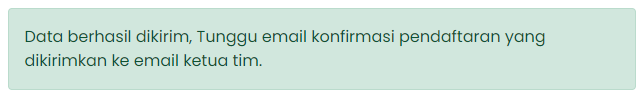
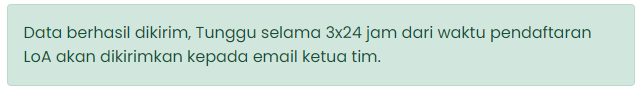
new

diff --git a/International-Participant.html b/International-Participant.html
@@ -40,8 +40,8 @@
         <br>
         <p>1.&nbsp; &nbsp; Please fill in the required data correctly and make sure there are no writing errors. Please also make sure that the data submitted is fixed and there will be no changes.</p>
         <p>2.&nbsp; &nbsp;After making sure the data is correct, you can click send. If we have received your data, there will be a green notification as follows above the submit button : </p>
-        <img class="con" src="../../Capture.PNG" alt="">
-        <p>3.&nbsp; &nbsp;Wait a while for a registration confirmation email to be sent to the team leader email you wrote.</p>
+        <img class="con" src="../../2.PNG" alt="">
+        <p>3.&nbsp; &nbsp;Wait for 3x24 hours from the time of registration LoA will be sent to the team leader's email.</p>
         <form name="#">
           
           <div class="user-details">
@@ -83,6 +83,7 @@
                 <option value="Online Competition + Certificate and Medal">Online Competition + Certificate and Medal</option>
                 <option value="Offline Competition">Offline Competition</option>
                 <option value="Offline Competition + Full Package">Offline Competition + Full Package</option>
+                <option value="Offline Competition + Excursion">Offline Competition + Excursion</option>
               </select>
               </select>
             </div>
@@ -496,7 +497,7 @@
       fetch(scriptURL, { method: 'POST', body: new FormData(form) })
         .then((response) =>
           $('#form_alerts').html(
-            "<div class='alert alert-success'>Data sent successfully, Wait for the registration confirmation email to be sent to the team leader's email.</div>"
+            "<div class='alert alert-success'>Data sent successfully, Wait for 3x24 hours from the time of registration LoA will be sent to the team leader's email.</div>"
           )
         )
         .catch((error) =>

diff --git a/Indonesian-Participant.html b/Indonesian-Participant.html
@@ -41,7 +41,7 @@
         <p>1.&nbsp; &nbsp; Mohon isi data yang diperlukan dengan benar dan pastikan tidak ada kesalahan penulisan. Mohon pastikan juga bahwa data yang dikirimkan sudah fix dan tidak ada perubahan.</p>
         <p>2.&nbsp; &nbsp;Setelah memastikan data sudah benar, Anda dapat mengklik kirim. Jika kami telah menerima data Anda, akan ada notifikasi berwarna hijau seperti di atas tombol kirim : </p>
         <img class="con" src="../../1.PNG" alt="">
-        <p>3.&nbsp; &nbsp;Tunggu beberapa saat hingga email konfirmasi pendaftaran dikirim ke email ketua tim yang Anda tulis.</p>
+        <p>3.&nbsp; &nbsp;Tunggu selama 3x24 jam dari waktu pendaftaran LoA akan dikirimkan kepada email ketua tim.</p>
         <form name="#">
           
           <div class="user-details">
@@ -84,6 +84,12 @@
                 </option>
                 <option value="Offline Competition">
                   Kompetisi Offline
+                </option>
+                <option value="Offline Competition">
+                  Offline Kompetisi + Excursion
+                </option>
+                <option value="Offline Competition">
+                  Offline Kompetisi + Full Package
                 </option>
               </select>
             </div>
@@ -504,7 +510,7 @@
       fetch(scriptURL, { method: 'POST', body: new FormData(form) })
         .then((response) =>
           $('#form_alerts').html(
-            "<div class='alert alert-success'>Data berhasil dikirim, Tunggu email konfirmasi pendaftaran yang dikirimkan ke email ketua tim.</div>"
+            "<div class='alert alert-success'>Data berhasil dikirim, Tunggu selama 3x24 jam dari waktu pendaftaran LoA akan dikirimkan kepada email ketua tim.</div>"
           )
         )
         .catch((error) =>

diff --git a/styless.css b/styless.css
@@ -11,7 +11,7 @@ body {
   justify-content: center;
   align-items: center;
   padding: 10px;
-  background: linear-gradient(135deg, #0000FF, #696969);
+  background: linear-gradient(to right, #0000FF 30%, #696969 70%);
 }
 .container {
   max-width: 700px;
@@ -156,7 +156,7 @@ form .button input {
   letter-spacing: 1px;
   cursor: pointer;
   transition: all 0.3s ease;
-  background: linear-gradient(135deg, #0000FF, #696969);
+  background: linear-gradient(to right, #0000FF 0%, #696969 100%);
 }
 form .button input:hover {
   /* transform: scale(0.99); */

diff --git a/styles.css b/styles.css
@@ -59,7 +59,7 @@ body {
   line-height: 26px;
   font-weight: 400;
   overflow-x: hidden;
-  background: linear-gradient(145deg, #0000FF, #696969);
+  background: linear-gradient(to right, #0000FF 50%, #696969 100%);
 }
 
 .wrapper {
@@ -88,7 +88,7 @@ body {
   font-weight: bold;
   border-radius: 20px;
   padding: 5px;
-  background: linear-gradient(145deg, #0000FF, #696969);
+  background: linear-gradient(to right, #0000FF 30%, #696969 70%);
 }
 
 .wrapper h3 {

diff --git a/stylesss.css b/stylesss.css
@@ -11,7 +11,7 @@ body {
   justify-content: center;
   align-items: center;
   padding: 10px;
-  background: linear-gradient(135deg, #0000FF, #696969);
+  background: linear-gradient(to right, #0000FF 30%, #696969 70%);
 }
 .container {
   max-width: 700px;
